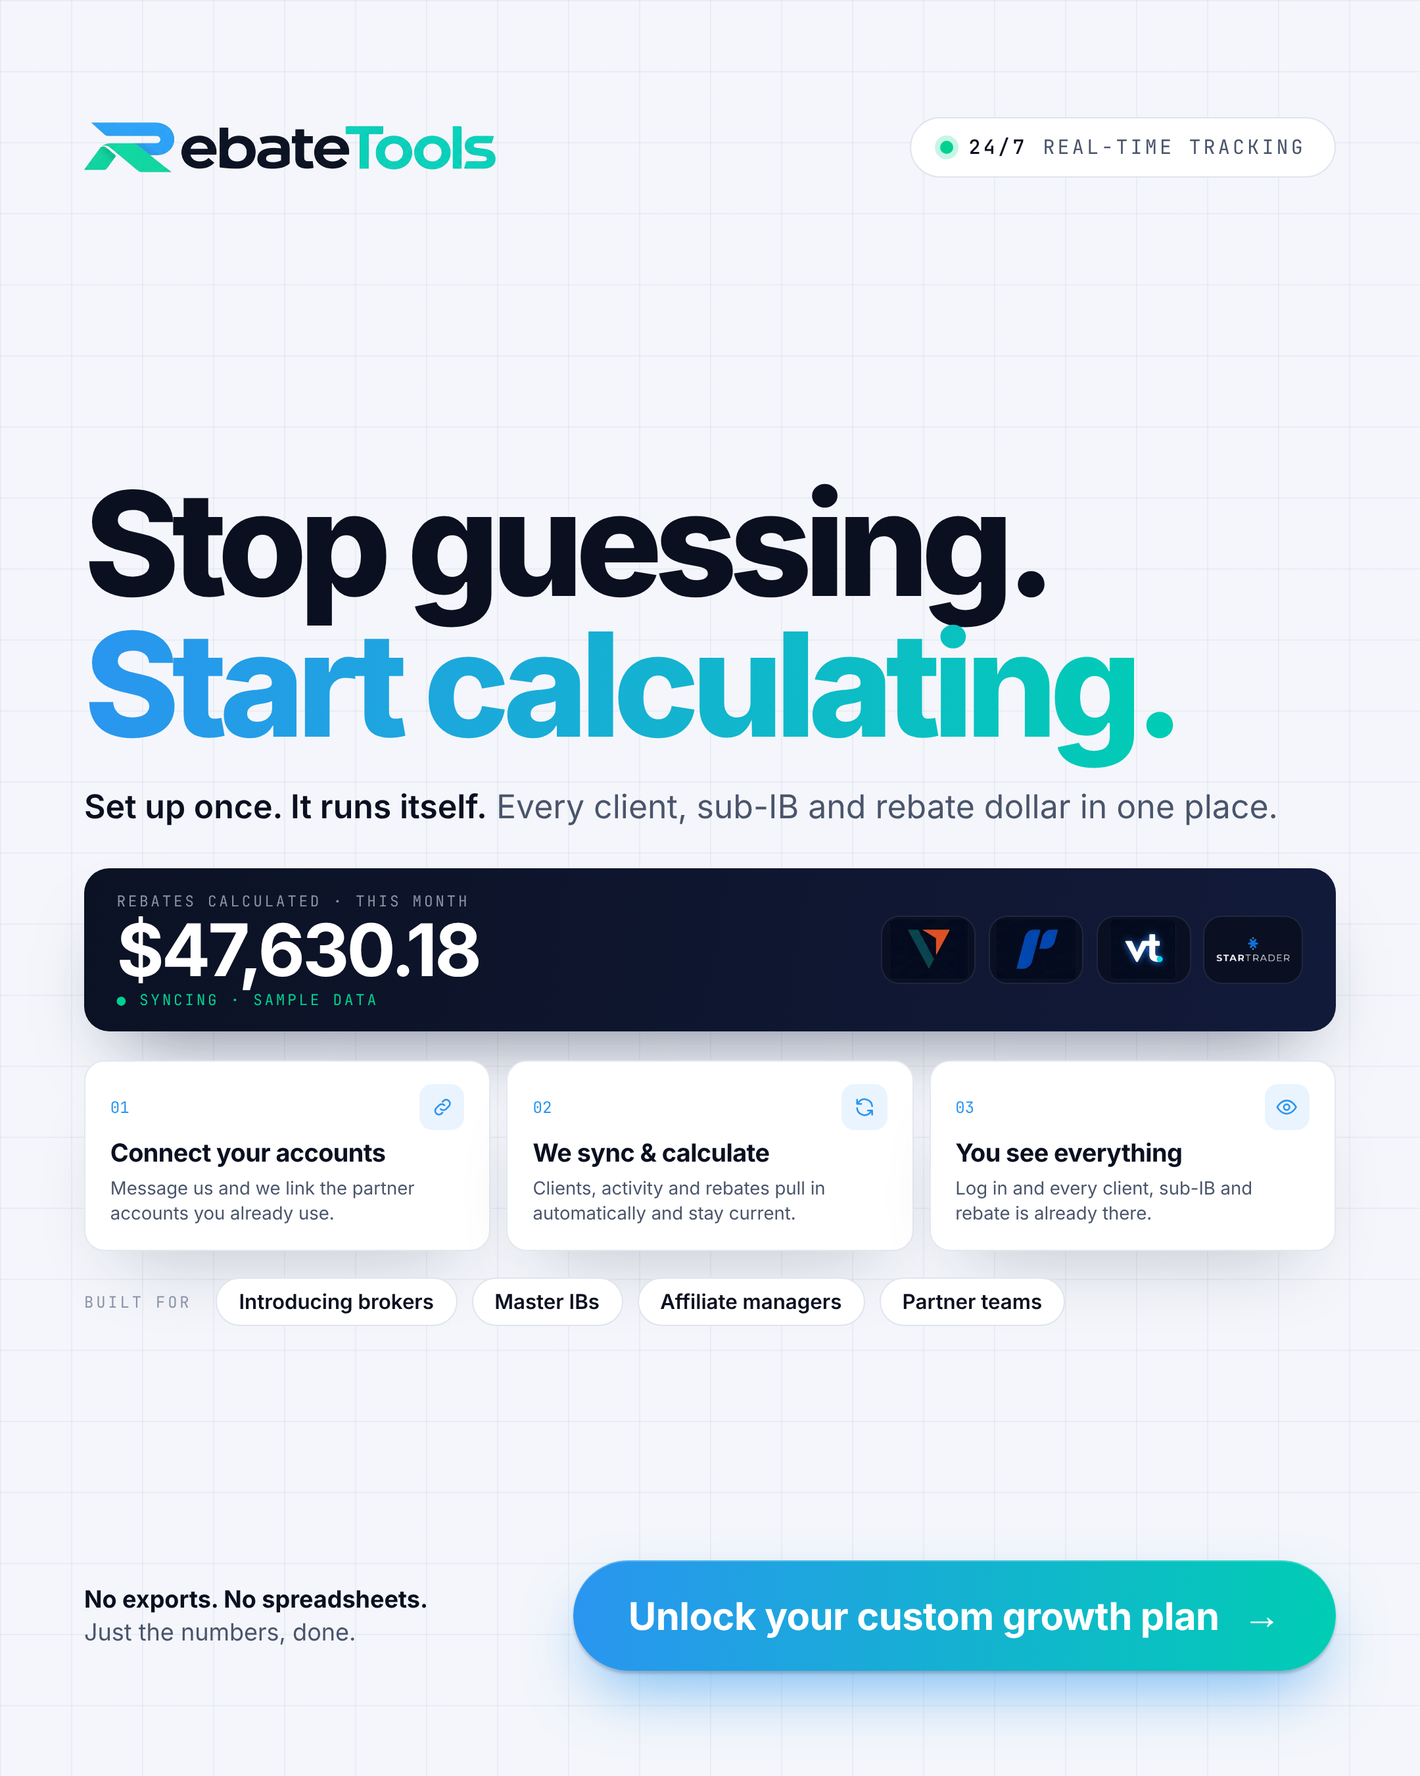
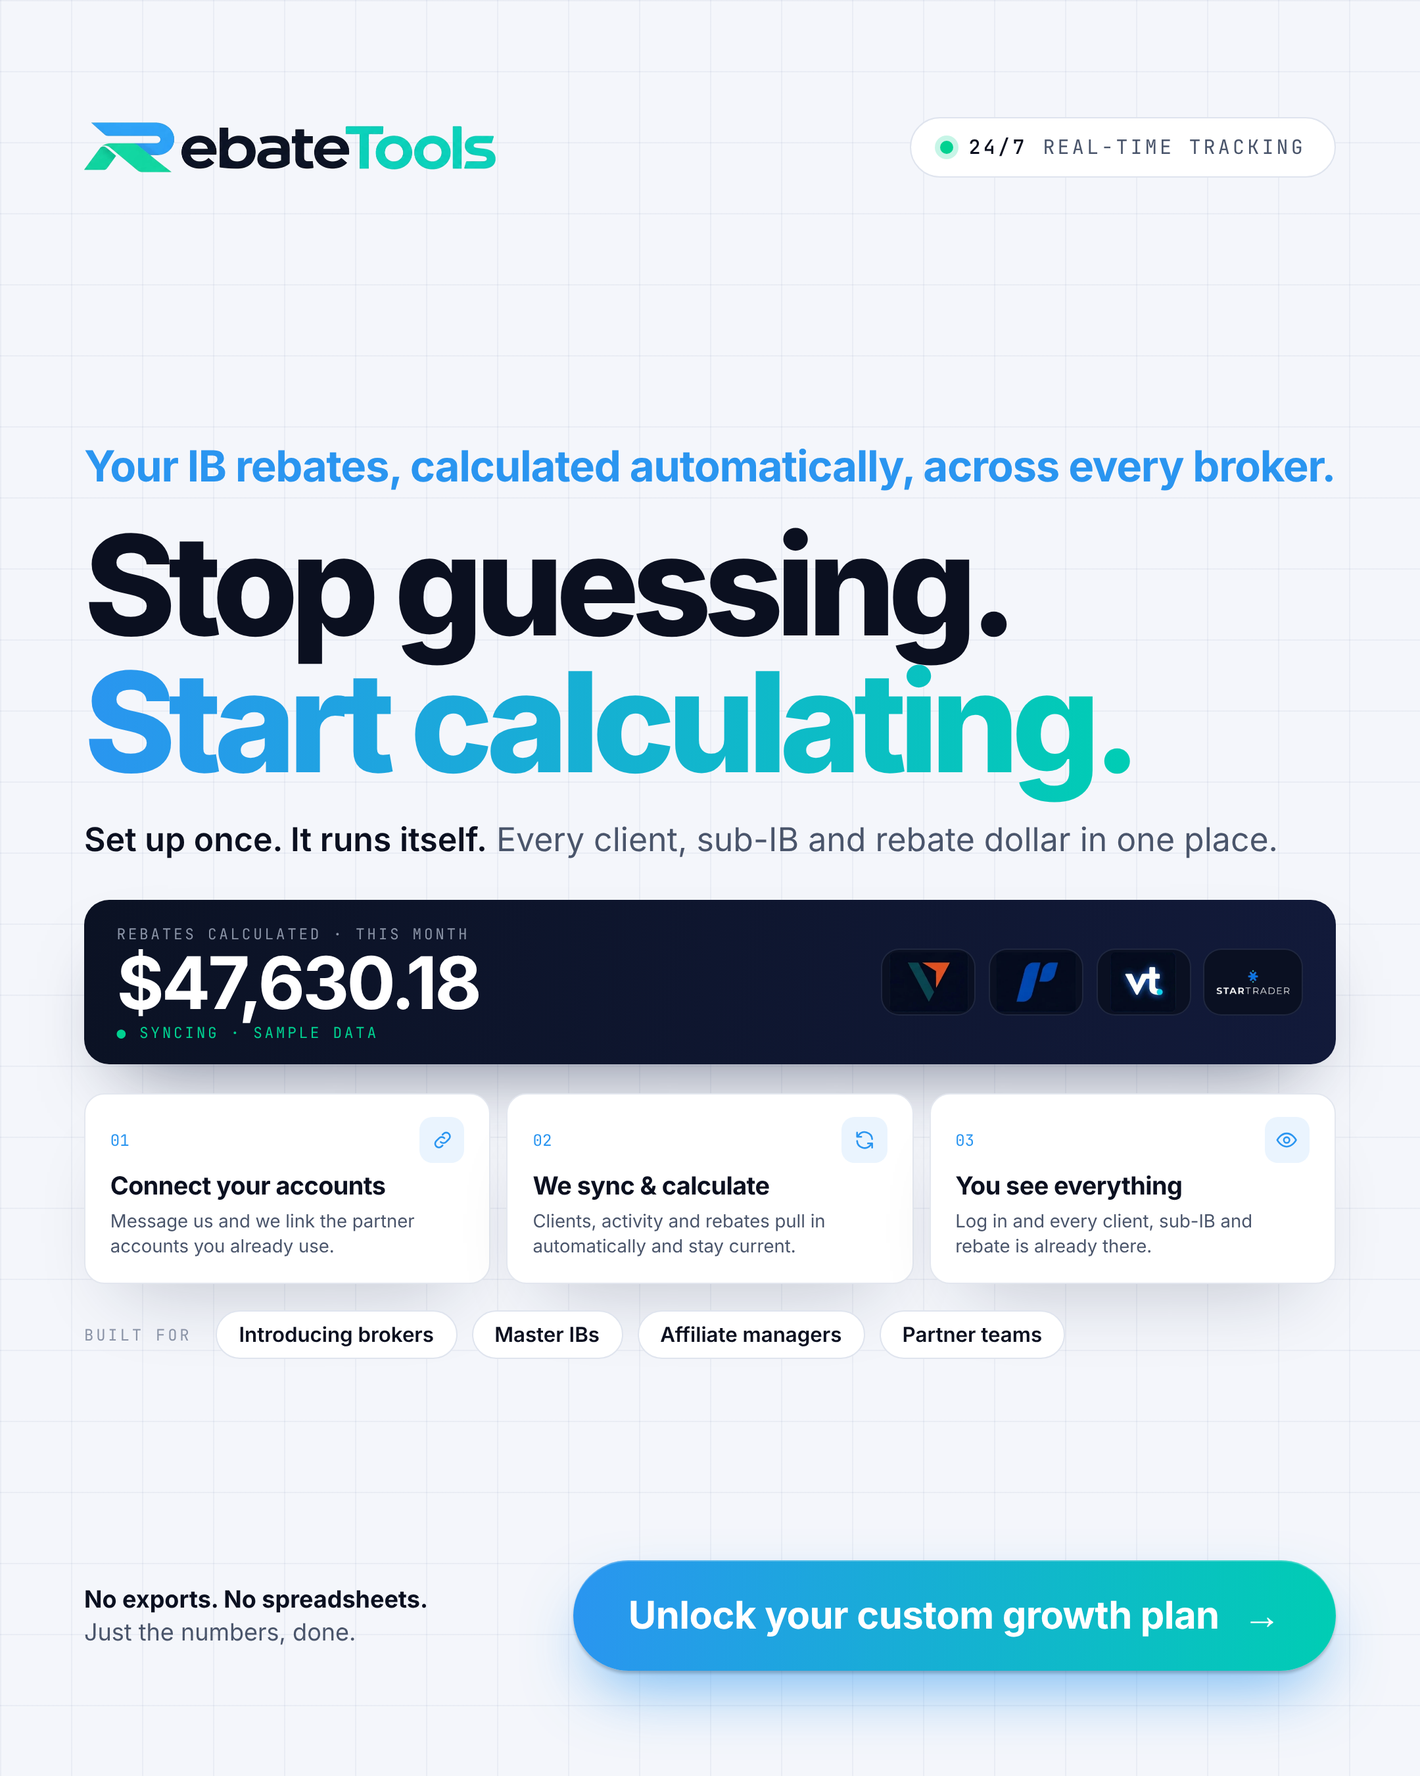
Ads: IB callout headlines on 03-06, 08-10
Claude-Session: https://claude.ai/code/session_01VcxFrQ7jCfbNFfqaNWy83o

Changed region(s): [[0.062, 0.2489, 0.9616, 0.7778], [0.8065, 0.9022, 0.8375, 0.9333], [0.6204, 0.9022, 0.6514, 0.9333]]

diff --git a/ads/source/ads.js b/ads/source/ads.js
@@ -5,14 +5,14 @@ const A={};
 // vertical (9:16) headlines: shorter lines, bigger type
 const H=(fs,html,extra='')=>`<div class="h" style="font-size:${fs}px;letter-spacing:-.055em;line-height:.98;${extra}">${html}</div>`;
 const hv={
-3:H(112,'Still tracking<br>rebates in<br><span style="position:relative;display:inline-block"><span class="gt g-brand">spreadsheets?</span><span style="position:absolute;left:-1%;right:7%;top:52%;height:10px;background:#ff6b6b;border-radius:9px;transform:rotate(-1.2deg);opacity:.92"></span></span>','color:var(--ink)'),
-4:H(106,'Your top client went<br>quiet <span class="gt g-orange">12 days ago.</span><br>Did you notice?'),
-5:H(104,'Which sub-IB<br>is actually<br><span class="gt g-teal">making you money?</span>','text-align:center'),
-6:H(124,'Stop guessing.<br><span class="gt g-brand">Start calculating.</span>','color:var(--ink)'),
+3:H(104,'Still running<br>your IB network<br>on <span style="position:relative;display:inline-block"><span class="gt g-brand">spreadsheets?</span><span style="position:absolute;left:-1%;right:7%;top:52%;height:10px;background:#ff6b6b;border-radius:9px;transform:rotate(-1.2deg);opacity:.92"></span></span>','color:var(--ink)'),
+4:H(100,'Your best IB client<br>stopped trading<br><span class="gt g-orange">12 days ago.</span><br>Did you notice?'),
+5:H(98,'You\'re building<br>an IB network, but<br>do you actually know<br><span class="gt g-teal">who drives it?</span>','text-align:center'),
+6:H(124,'<div style="font-size:42px;line-height:1.2;letter-spacing:-.02em;font-weight:700;color:#2a95f0;margin-bottom:26px">Your IB rebates, calculated<br>automatically, across every broker.</div>Stop guessing.<br><span class="gt g-brand">Start calculating.</span>','color:var(--ink)'),
 7:H(116,'Your rebates<br>dropped 31%.<br><span class="gt g-coral">Do you know why?</span>','color:var(--ink)'),
-8:H(90,'<span style="color:#3f4a63">A few clients drive<br>most of your rebates.</span><br><span class="gt g-teal">Do you know<br>which ones?</span>'),
-9:H(136,"Who's trading<br>less than<br><span class=\"gt g-plum\">last week?</span>"),
-10:H(132,"Know who's<br>keeping your<br><span class=\"gt g-gold\">income alive.</span>",'color:var(--ink);text-align:center'),
+8:H(90,'<div style="font-size:38px;line-height:1.2;letter-spacing:-.02em;font-weight:700;color:#00a88f;margin-bottom:24px">For IBs &amp; affiliates with a trading community</div><span style="color:#3f4a63">A few clients drive<br>most of your rebates.</span><br><span class="gt g-teal">Do you know<br>which ones?</span>'),
+9:H(116,"Who in your<br>IB network is<br>trading less than<br><span class=\"gt g-plum\">last week?</span>"),
+10:H(124,"IBs: which<br>traders keep your<br><span class=\"gt g-gold\">income alive?</span>",'color:var(--ink);text-align:center'),
 };
 
 
@@ -110,7 +110,7 @@ const after3=(w=410)=>`<div style="width:${w}px;background:#0b1224;border-radius
  <div class="row" style="gap:8px;margin-top:10px">${['Today','This month','All time'].map((t,i)=>`<span style="font-size:13px;padding:5px 10px;border-radius:7px;border:1px solid ${i==1?'rgba(42,149,240,.6)':'rgba(140,160,220,.2)'};${i==1?'background:rgba(42,149,240,.16)':'color:var(--fg2)'}">${t}</span>`).join('')}</div></div>`;
 const zoomWrap=(h,z)=>`<div style="zoom:${z}">${h}</div>`;
 const tagc=(t,c,bg)=>`<span class="mono" style="font-size:14px;letter-spacing:.16em;color:${c};background:${bg};padding:6px 12px;border-radius:999px">${t}</span>`;
-const hl3=(a,b)=>`<div class="h" style="color:var(--ink)"><div style="font-size:${a}px">Still tracking rebates in</div><div style="position:relative;display:inline-block;font-size:${b}px"><span class="gt g-brand">spreadsheets?</span><span style="position:absolute;left:-1%;right:6%;top:50%;height:${b*.075}px;background:#ff6b6b;border-radius:9px;transform:rotate(-1.2deg);opacity:.92"></span></div></div>`;
+const hl3=(a,b)=>`<div class="h" style="color:var(--ink)"><div style="font-size:${a}px">Still running your<br>IB network on</div><div style="position:relative;display:inline-block;font-size:${b}px"><span class="gt g-brand">spreadsheets?</span><span style="position:absolute;left:-1%;right:6%;top:50%;height:${b*.075}px;background:#ff6b6b;border-radius:9px;transform:rotate(-1.2deg);opacity:.92"></span></div></div>`;
 const checks3=`<div style="font-size:21px;font-weight:600;color:var(--ink);line-height:1.75"><div class="row" style="gap:12px">${ic('check',22,'#00b07a',2.4)}Synced from your partner accounts</div><div class="row" style="gap:12px">${ic('check',22,'#00b07a',2.4)}Every rebate, per client &amp; partner</div></div>`;
 A[3]={cls:'light grid',
 sq:`<div class="c">${topRow(pill('<b>0 spreadsheets</b> · 0 exports'),true)}
@@ -144,7 +144,7 @@ const clients4=(f=1)=>`<div style="position:relative">
  <span style="position:absolute;right:${-14*f}px;top:${-22*f}px;width:${48*f}px;height:${48*f}px;border-radius:50%;background:linear-gradient(135deg,#f5a524,#ff6b6b);display:flex;align-items:center;justify-content:center;box-shadow:0 0 30px rgba(255,140,60,.6);z-index:2">${ic('bell',24*f,'#fff',2)}<b style="position:absolute;top:-6px;right:-6px;background:#fff;color:#d0452f;font-size:${12*f}px;width:${22*f}px;height:${22*f}px;border-radius:50%;display:flex;align-items:center;justify-content:center">3</b></span>
  <div style="display:grid;gap:${12*f}px">${client4('ES','Ernest Schuppe','c-risk','AT RISK','12 days ago','$1.76','hi',f)}${client4('LS','Laurence Smith','c-dead','DEAD','9 days ago','$8.49','',f)}${client4('DD','Delilah Davis','c-risk','AT RISK','6 days ago','$1,307','',f)}${client4('KS','Kris Streich','c-hot','HOT','Yesterday','$4,620','done',f)}</div>
  <div class="lab" style="text-align:right;margin-top:12px;font-size:12px">Product preview · sample data</div></div>`;
-const hl4=(fs)=>`<div class="h" style="font-size:${fs}px;letter-spacing:-.055em">Your top client went<br>quiet <span class="gt g-orange">12 days ago.</span><br>Did you notice?</div>`;
+const hl4=(fs)=>`<div class="h" style="font-size:${fs}px;letter-spacing:-.055em">Your best IB client<br>stopped trading<br><span class="gt g-orange">12 days ago.</span><br>Did you notice?</div>`;
 const tags4=`<div class="row" style="gap:16px">${tagc('AT RISK','#f5a524','rgba(245,165,36,.12)').replace('border-radius:999px','border-radius:8px;border:1px solid rgba(245,165,36,.4)')}<span style="color:var(--fg3);font-size:26px">→</span>${tagc('RE-ENGAGED','#00d190','rgba(0,209,144,.1)').replace('border-radius:999px','border-radius:8px;border:1px solid rgba(0,209,144,.4)')}</div>`;
 const sub4=`<div class="sub" style="font-size:24px">By the time most IBs spot it, the client has already moved on. <b>RebateTools flags who's slowing down automatically</b>, so you reach out while there's still a relationship to save.</div>`;
 const cta4=cta('Catch churn before it costs you','background:#fff;color:#0b1020;box-shadow:0 22px 50px -14px rgba(255,107,107,.55)').replace('<i>','<i style="color:#ff6b6b">');
@@ -184,12 +184,12 @@ const tree5=(f=1,h=430)=>{const W=952;return `<div style="position:relative;widt
  <div style="position:absolute;left:162px;width:150px;top:${365*f}px">${leaf5('Affiliate A2','$6,410',f)}</div>
  <div style="position:absolute;left:400px;width:150px;top:${365*f}px">${leaf5('Affiliate B1','$4,980',f)}</div>
 </div>`};
-const hl5=(fs)=>`<div class="h" style="text-align:center;font-size:${fs}px;letter-spacing:-.05em">Which sub-IB is actually<br><span class="gt g-teal">making you money?</span></div>`;
+const hl5=(fs)=>`<div class="h h5" style="text-align:center;font-size:${fs}px;letter-spacing:-.05em">You're building an IB<br>network, but do you<br>actually know<br><span class="gt g-teal">who drives it?</span></div>`;
 const cta5=cta('Grow the partners who grow you','background:linear-gradient(92deg,#00d190,#2a95f0);color:#03150e;box-shadow:0 22px 50px -14px rgba(0,209,144,.6)');
 const bg5='background:radial-gradient(800px 600px at 50% 55%,rgba(0,209,144,.12),transparent 65%),#070b14';
 A[5]={cls:'dark grid',style:bg5,
 sq:`<div class="c">${topRow(pill('Sub-IB management'))}
-<div style="margin-top:36px">${hl5(86)}</div>
+<div style="margin-top:36px">${hl5(84)}</div>
 <div class="mono" style="text-align:center;margin-top:24px;font-size:15px;letter-spacing:.2em;color:var(--fg2)">SEE EVERY TIER OF YOUR NETWORK · LIVE</div>
 <div style="margin-top:30px">${tree5(.94,410)}</div>
 <div class="lab" style="text-align:right;font-size:12px;margin-top:-6px">Product preview · sample data</div>
@@ -210,7 +210,7 @@ const banner6=(f=1)=>`<div style="background:linear-gradient(100deg,#0b1224,#121
 const step6=(n,i,t,d,f=1)=>`<div class="wcard" style="padding:${20*f}px ${22*f}px;border-radius:${18*f}px"><div class="row"><span class="mono" style="font-size:${14*f}px;color:#2a95f0">${n}</span><span class="sp"></span><span style="width:${40*f}px;height:${40*f}px;border-radius:10px;background:#eaf4fe;display:flex;align-items:center;justify-content:center">${ic(i,20*f,'#2a95f0')}</span></div><b style="display:block;font-size:${22*f}px;letter-spacing:-.015em;margin-top:6px;color:var(--ink)">${t}</b><div style="font-size:${16*f}px;line-height:1.4;color:var(--ink2);margin-top:6px">${d}</div></div>`;
 const steps6=(f=1,cols=3)=>`<div style="display:grid;grid-template-columns:repeat(${cols},1fr);gap:${14*f}px">${step6('01','link','Connect your accounts','Message us and we link the partner accounts you already use.',f)}${step6('02','sync','We sync &amp; calculate','Clients, activity and rebates pull in automatically and stay current.',f)}${step6('03','eye','You see everything','Log in and every client, sub-IB and rebate is already there.',f)}</div>`;
 const built6=`<div class="row" style="gap:12px;flex-wrap:wrap"><span class="lab" style="margin-right:8px">Built for</span>${['Introducing brokers','Master IBs','Affiliate managers','Partner teams'].map(t=>`<span style="background:#fff;border:1px solid #dfe4ee;border-radius:999px;padding:9px 18px;font-size:17px;font-weight:600;color:var(--ink)">${t}</span>`).join('')}</div>`;
-const hl6=(fs)=>`<div class="h" style="font-size:${fs}px;color:var(--ink);letter-spacing:-.055em">Stop guessing.<br><span class="gt g-brand">Start calculating.</span></div>`;
+const hl6=(fs)=>`<div class="h" style="font-size:${fs}px;color:var(--ink);letter-spacing:-.055em"><div style="font-size:34px;line-height:1.2;letter-spacing:-.02em;font-weight:700;color:#2a95f0;margin-bottom:20px">Your IB rebates, calculated automatically, across every broker.</div>Stop guessing.<br><span class="gt g-brand">Start calculating.</span></div>`;
 A[6]={cls:'light grid',
 sq:`<div class="c">${topRow(pill('<b>24/7</b> real-time tracking'),true)}
 <div style="margin-top:42px">${hl6(110)}</div>
@@ -264,7 +264,7 @@ const bars8=(f=1)=>`<div><div class="row" style="gap:12px;margin-bottom:${14*f}p
  ${[['Olga Gutmann',22,90],['Kris Streich',18,72],['Laurence Smith',14,56],['Albert Kessler',11,44],['Hipolito Prosacco',9,36],['Other 143 clients',26,100,1]].map(r=>`<div class="row" style="height:${41*f}px;gap:16px"><span style="width:${175*f}px;font-size:${17*f}px;font-weight:600;color:${r[3]?'var(--ink3)':'var(--ink)'}">${r[0]}</span><span style="flex:1;height:${26*f}px;border-radius:8px;background:#eef1f6;overflow:hidden"><i style="display:block;height:100%;width:${r[2]}%;border-radius:8px;background:${r[3]?'#d3d9e4':'linear-gradient(90deg,#00c98a,#2a95f0)'}"></i></span><b style="width:${46*f}px;text-align:right;font-size:${17*f}px;color:${r[3]?'var(--ink3)':'var(--ink)'}">${r[1]}%</b></div>`).join('')}</div>`;
 const big8=(f=1)=>`<div><div class="gt g-teal" style="font-size:${104*f}px;font-weight:800;letter-spacing:-.05em;line-height:1">74%</div><div style="font-size:${19*f}px;color:var(--ink2);margin-top:8px;line-height:1.35">of rebates from <b style="color:var(--ink)">just 5 clients.</b></div>
  <div style="display:flex;flex-wrap:wrap;gap:8px;margin-top:${18*f}px">${['This month','All time','Active now','Low balance'].map((t,i)=>`<span class="mono" style="font-size:${12*f}px;letter-spacing:.14em;text-transform:uppercase;padding:6px 10px;border-radius:6px;${i?'border:1px solid #d9dfe9;color:var(--ink2)':'background:#0b1020;color:#fff'}">${t}</span>`).join('')}</div></div>`;
-const hl8=(a,b)=>`<div class="h" style="letter-spacing:-.05em"><div style="font-size:${a}px;color:#3f4a63">A few clients drive most of your rebates.</div><div class="gt g-teal" style="font-size:${b}px;margin-top:6px">Do you know which ones?</div></div>`;
+const hl8=(a,b)=>`<div class="h" style="letter-spacing:-.05em"><div style="font-size:30px;line-height:1.2;letter-spacing:-.02em;font-weight:700;color:#00a88f;margin-bottom:16px">For IBs &amp; affiliates with a trading community</div><div style="font-size:${a}px;color:#3f4a63">A few clients drive most of your rebates.</div><div class="gt g-teal" style="font-size:${b}px;margin-top:6px">Do you know which ones?</div></div>`;
 const cta8=cta('Find your top earners','background:linear-gradient(92deg,#00c98a,#2a95f0);box-shadow:0 22px 50px -14px rgba(0,180,140,.55)');
 const sub8=`<div class="sub" style="font-size:24px">Rank every client by rebate, volume and activity, so you <b>know exactly who your income depends on.</b></div>`;
 const bg8='background:radial-gradient(800px 600px at 100% 0%,rgba(0,209,144,.16),transparent 60%),#eef8f4';
@@ -287,12 +287,12 @@ const table9=(f=1)=>`<div class="card" style="padding:${20*f}px ${22*f}px;border
  <div class="row" style="gap:12px">${mark(26*f)}<b style="font-size:${20*f}px">Volume · this week vs last</b><span class="sp"></span><span class="lab" style="font-size:${11.5*f}px">Sample data</span><span class="mono" style="margin-left:12px;font-size:${12*f}px;letter-spacing:.12em;border:1px solid rgba(167,139,250,.35);border-radius:8px;padding:6px 10px;color:var(--fg2)">SORT: BIGGEST SLOWDOWN ▾</span></div>
  <div class="row lab" style="font-size:${11.5*f}px;padding:${14*f}px ${16*f}px ${8*f}px"><span style="width:${330*f}px">Client</span><span style="width:${230*f}px">Volume (lots)</span><span style="flex:1">7-day trend</span><span>Change</span></div>
  ${[['Olga Gutmann','93.4','161.0','−42%',[9,9,8.6,8.3,7.4,6.8,6.2]],['Delilah Davis','33.6','51.7','−35%',[9,9.1,8.8,8.9,8,7.6,7.2]],['Kris Streich','36.4','50.6','−28%',[9,8.9,9.1,8.5,8.3,7.8,7.6]],['Mr. Lulu Gerlach','48.4','60.5','−20%',[9,9.1,8.8,8.9,8.4,8.2,7.9]],['Albert Kessler','58.7','52.4','+12%',[6,6.2,6.4,6.6,7.2,7.8,8.4],1]].map(r=>`<div class="row" style="height:${58*f}px;padding:0 ${16*f}px;border:1px solid rgba(167,139,250,.14);border-radius:12px;margin-top:${8*f}px;background:rgba(255,255,255,.02);${r[5]?'opacity:.6':''}"><b style="width:${330*f}px;font-size:${18*f}px">${r[0]}</b><span style="width:${230*f}px;font-size:${16*f}px;color:var(--fg2)"><b style="color:var(--fg)">${r[1]}</b> / ${r[2]}</span><span style="flex:1">${spark(r[4],170*f,30*f,r[5]?'#00d190':'#f472b6',{sw:2.2})}</span><b style="font-size:${20*f}px;color:${r[5]?'#00d190':'#f472b6'}">${r[3]}</b></div>`).join('')}</div>`;
-const hl9=(fs,br='<br>')=>`<div class="h" style="font-size:${fs}px;letter-spacing:-.055em">Who's trading less${br}<span class="gt g-plum">than last week?</span></div>`;
+const hl9=(fs,br='<br>')=>`<div class="h" style="font-size:${fs}px;letter-spacing:-.055em">Who in your IB${br}network is trading<br><span class="gt g-plum">less than last week?</span></div>`;
 const cta9=cta('Spot the slowdown','background:linear-gradient(92deg,#a78bfa,#f472b6);box-shadow:0 22px 50px -14px rgba(244,114,182,.6)');
 const bg9='background:radial-gradient(800px 600px at 90% 0%,rgba(167,139,250,.18),transparent 60%),radial-gradient(700px 500px at 0% 100%,rgba(244,114,182,.12),transparent 60%),#0d0a18';
 A[9]={cls:'dark grid',style:bg9,
 sq:`<div class="c">${topRow(pill('<b>4 clients</b> slowing down','#f472b6'))}
-<div style="margin-top:44px">${hl9(118)}</div>
+<div style="margin-top:44px">${hl9(94)}</div>
 <div class="sub" style="margin-top:20px;font-size:25px">You shouldn't have to dig through a back-office to find out.</div>
 <div style="margin-top:34px;zoom:.92">${table9()}</div>
 <div class="sp"></div>
@@ -313,13 +313,13 @@ const pod10=(ini,n,st,vol,reb,rank,main,f=1)=>`<div style="${main?'background:#0
  <div style="font-size:${14.5*f}px;color:#00b07a;margin-top:4px;font-weight:600">● ${st}</div>
  <div class="row" style="margin-top:${14*f}px"><div style="flex:1"><div class="lab" style="font-size:${11*f}px">Volume</div><b style="font-size:${(main?30:24)*f}px">${vol}</b></div><div style="flex:1"><div class="lab" style="font-size:${11*f}px">Rebate</div><b style="font-size:${(main?30:24)*f}px">${reb}</b></div></div>
  <div class="row" style="justify-content:center;gap:8px;margin-top:${14*f}px;height:${40*f}px;border-radius:10px;font-weight:700;font-size:${15*f}px;${main?'background:#00c98a;color:#04150f':'background:#eaf7f1;color:#047857'}">${ic('chat',16*f,main?'#04150f':'#047857')}Say thanks</div></div>`;
-const hl10=(fs,br='<br>')=>`<div class="h" style="text-align:center;font-size:${fs}px;color:var(--ink);letter-spacing:-.055em">Know who's keeping${br}<span class="gt g-gold">your income alive.</span></div>`;
+const hl10=(fs,br='<br>')=>`<div class="h" style="text-align:center;font-size:${fs}px;color:var(--ink);letter-spacing:-.055em">IBs: which${br}traders keep<br><span class="gt g-gold">your income alive?</span></div>`;
 const cta10=cta('Find your top traders','background:#0b1020;box-shadow:0 22px 50px -16px rgba(11,16,32,.55)').replace('<i>','<i style="color:#f0b43a">');
 const rank10=(f=1)=>`<div class="row" style="justify-content:center;gap:10px"><span class="lab" style="margin-right:8px;font-size:${13*f}px">Rank by</span>${['Rebate','Volume','Active now','This month','All time'].map((t,i)=>`<span style="font-size:${16*f}px;font-weight:600;padding:${9*f}px ${16*f}px;border-radius:999px;${i?'background:#fff;border:1px solid #e6dfcf;color:var(--ink)':'background:#0b1020;color:#fff'}">${t}</span>`).join('')}</div>`;
 const bg10='background:radial-gradient(700px 500px at 50% 75%,rgba(240,180,58,.16),transparent 65%),#fbf8f1';
 A[10]={cls:'light grid',style:bg10,
 sq:`<div class="c">${topRow(pill('<b>3 hot</b> clients active now'),true)}
-<div style="margin-top:40px">${hl10(112)}</div>
+<div style="margin-top:40px">${hl10(104)}</div>
 <div class="sub" style="text-align:center;margin-top:20px;font-size:25px">Your busiest traders carry your network. <b>Make sure they feel it.</b></div>
 <div style="display:grid;grid-template-columns:1fr 1.12fr 1fr;gap:16px;align-items:center;margin-top:38px">${pod10('HP','Hipolito P.','Active today','52.4k','$1,790',2,0,.9)}${pod10('OG','Olga Gutmann','Trading now','161.0k','$5,385',1,1,.9)}${pod10('KS','Kris Streich','Active yesterday','50.6k','$1,696',3,0,.9)}</div>
 <div style="margin-top:28px">${rank10(.95)}</div>

diff --git a/ads/source/base.css b/ads/source/base.css
@@ -92,3 +92,5 @@ body{font-family:Inter,sans-serif;-webkit-font-smoothing:antialiased;font-featur
 .f45 .ad>.c{justify-content:space-between}
 .f45 .ad>.c>.sp{display:none}
 .f45 .ad>.c>*{margin-top:0!important}
+
+.sq .h5{zoom:.8}
